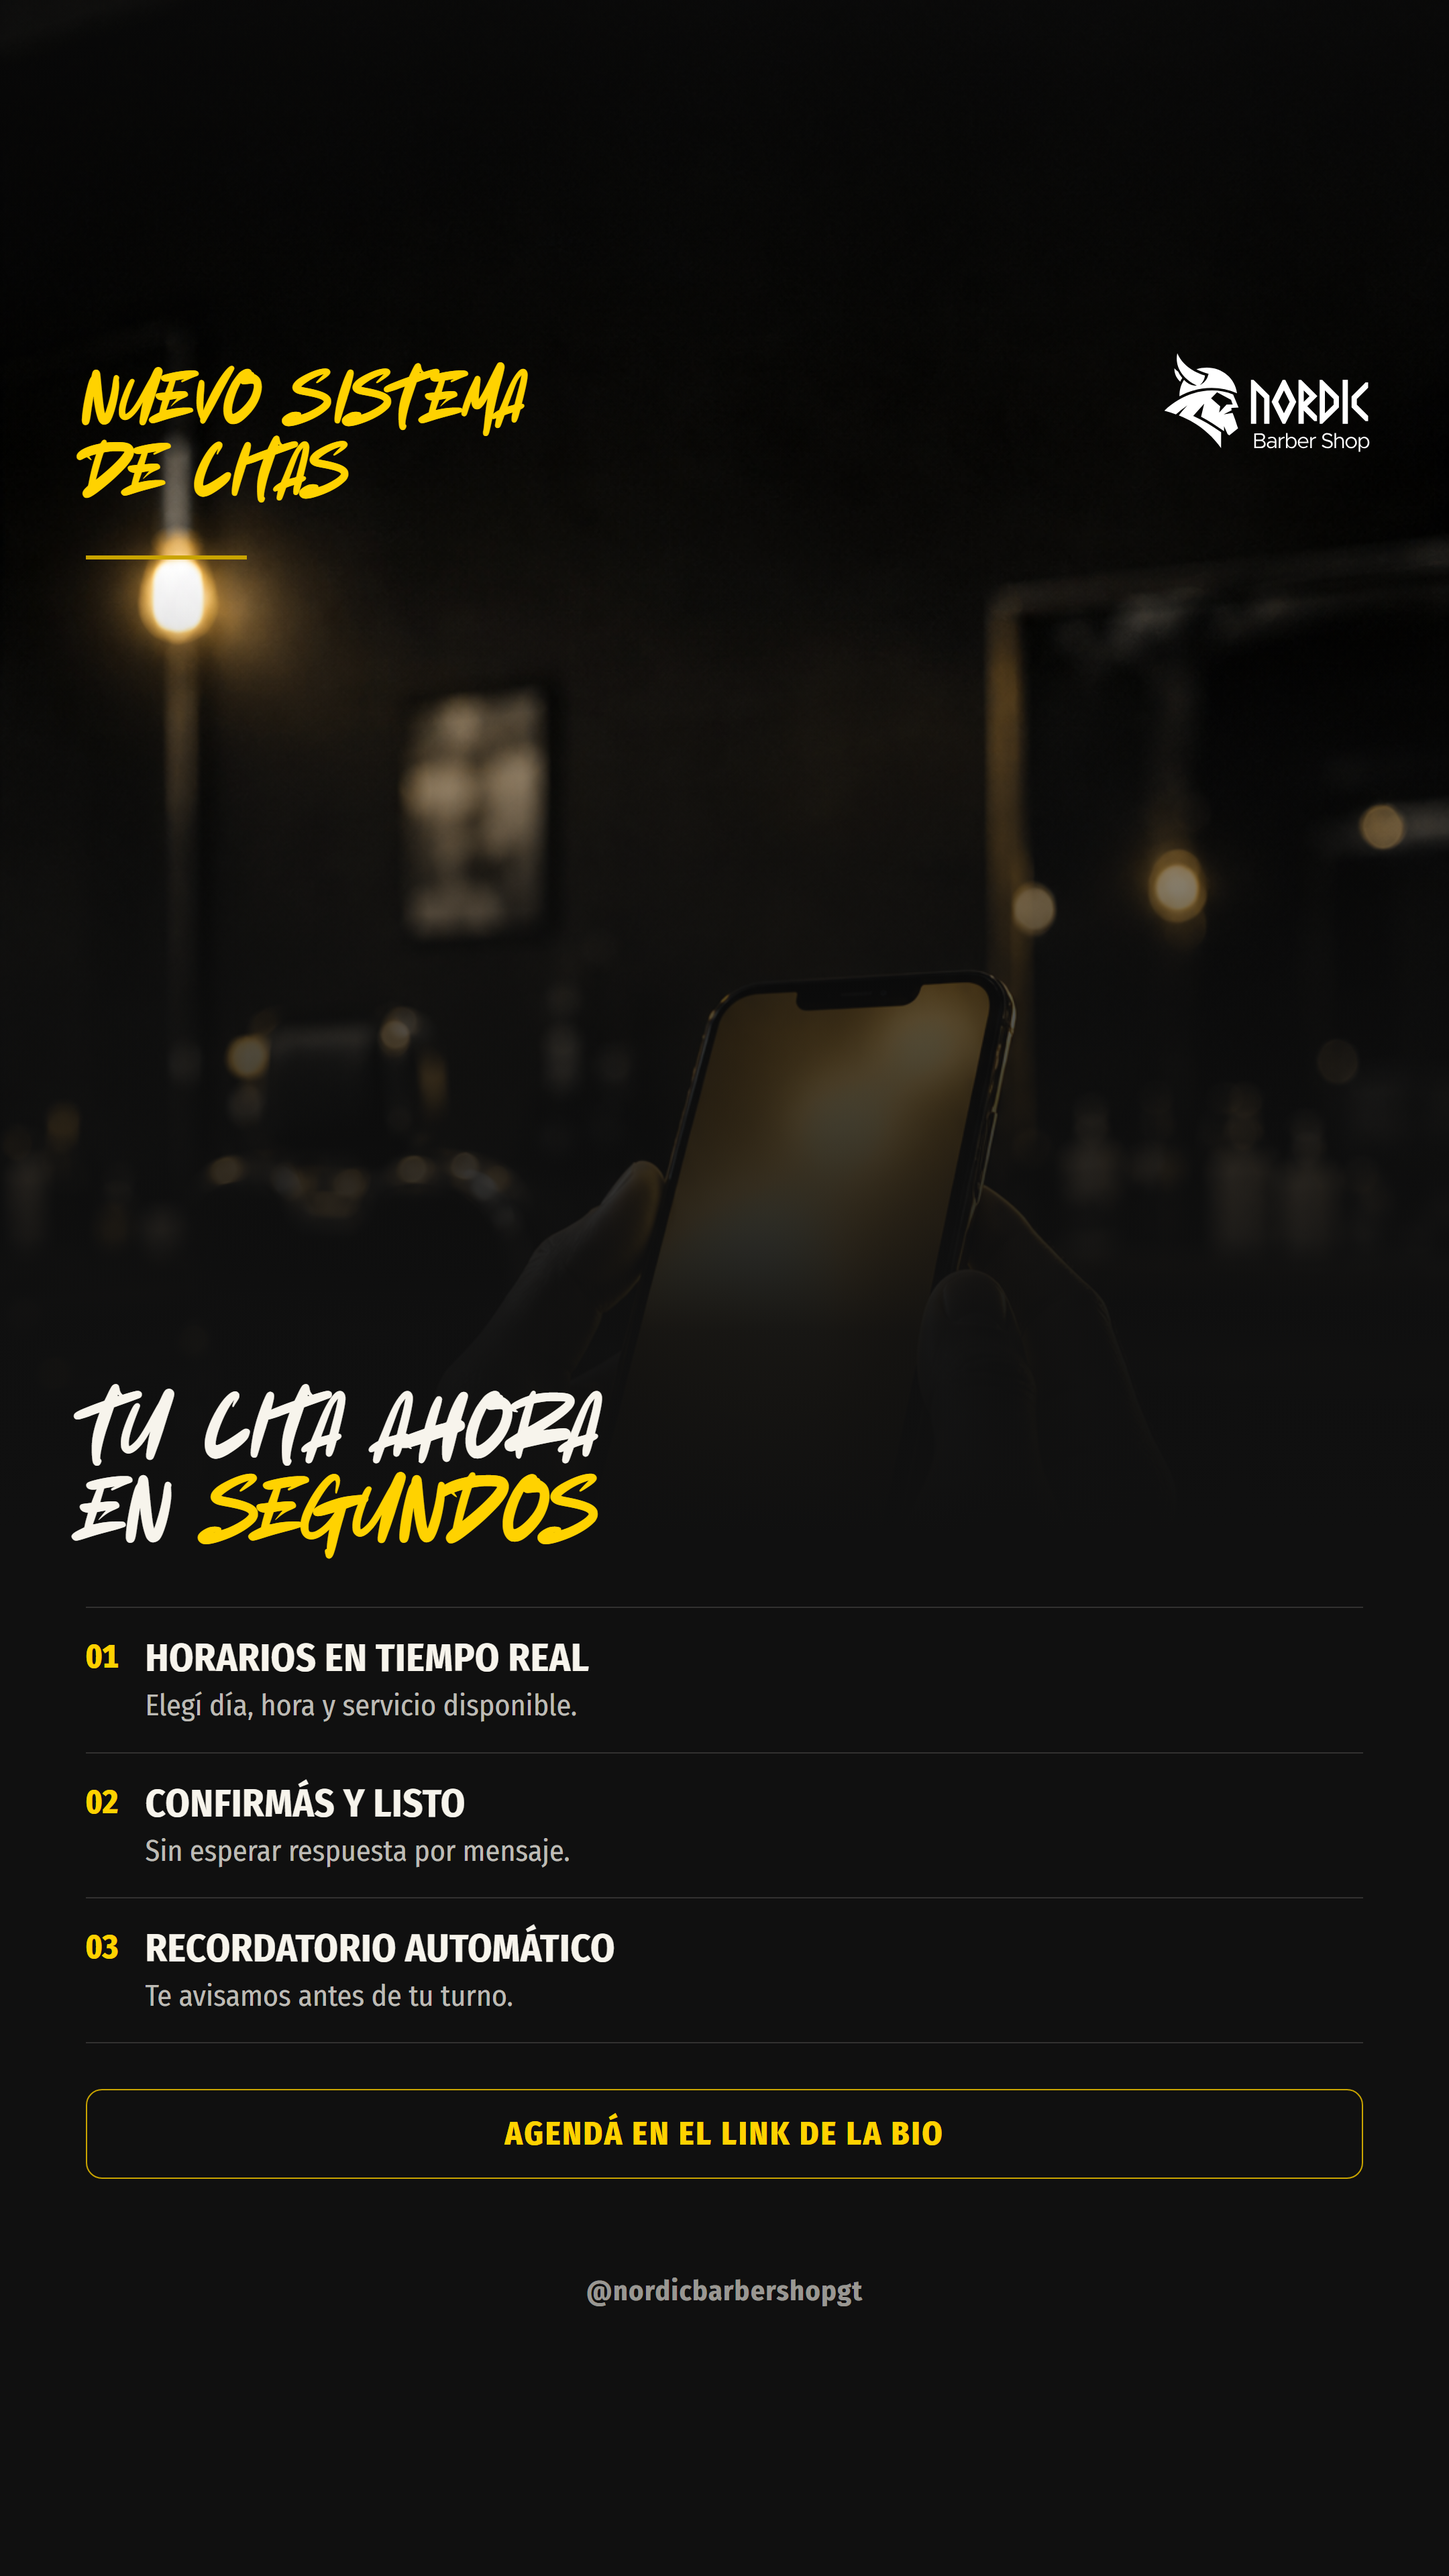
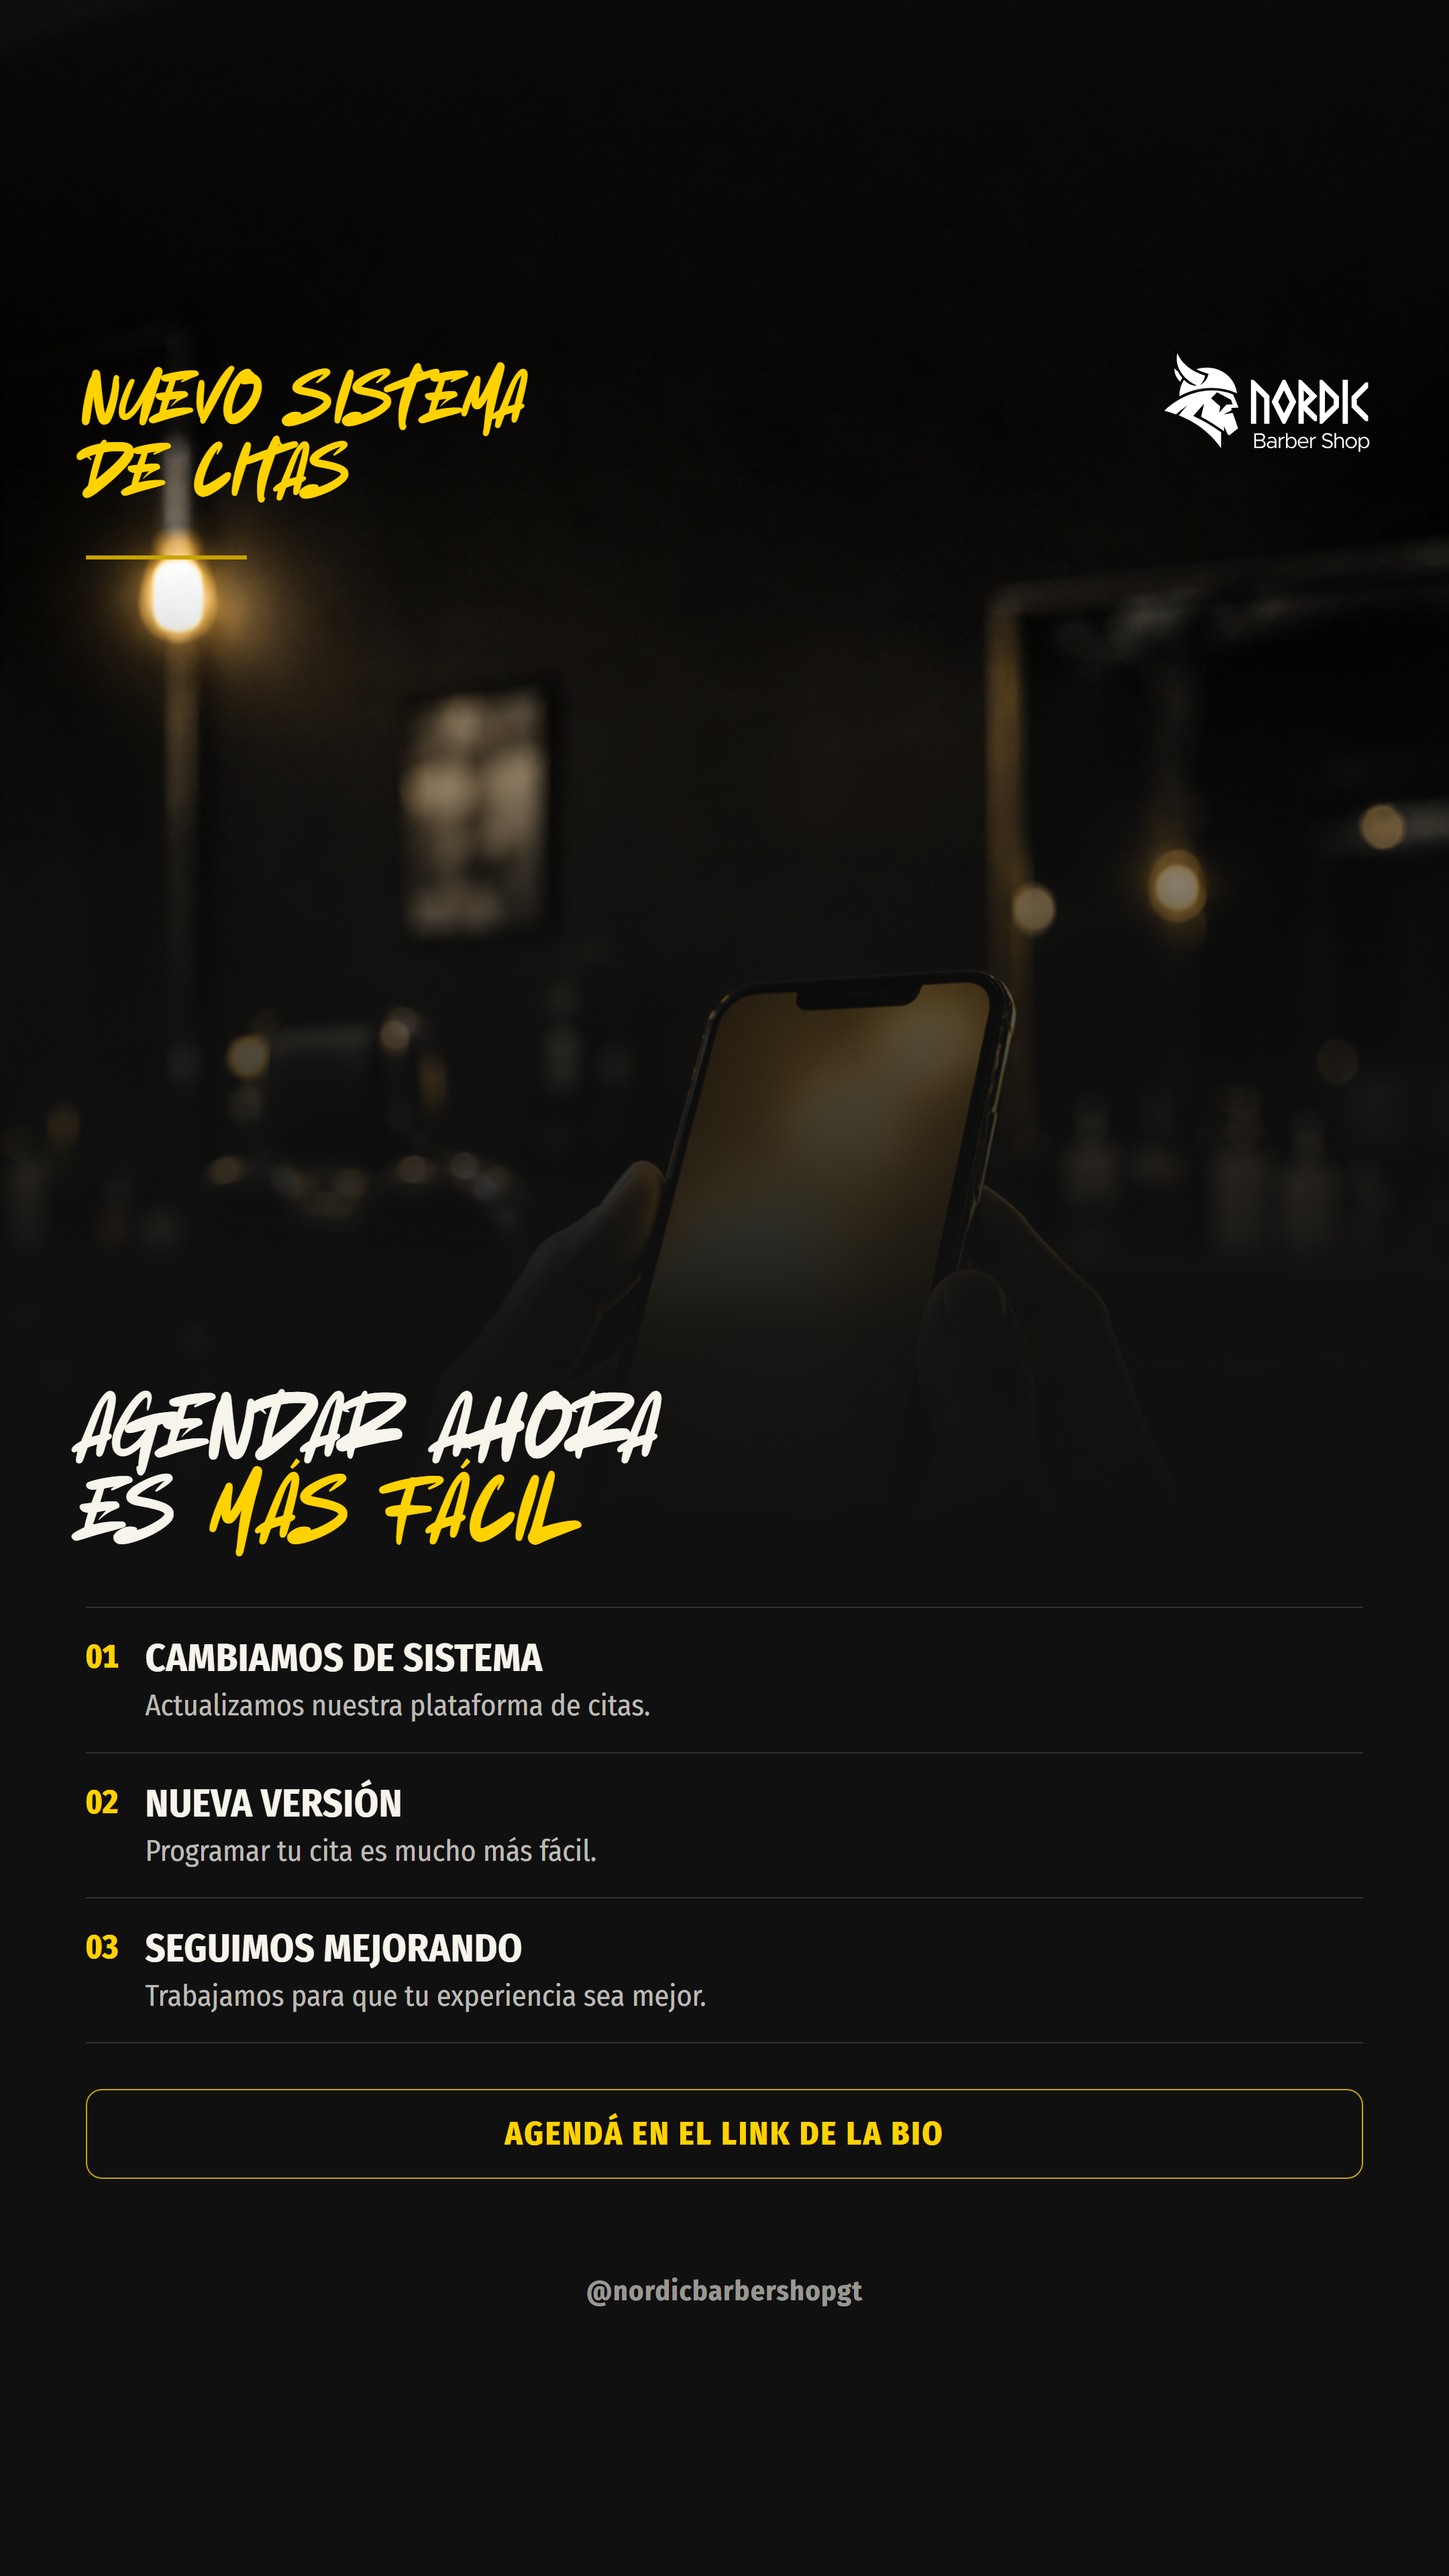
Revise nuevo-sistema-citas: reframe around system change, not speed
Client asked to drop the speed promise "Tu cita ahora en segundos"
and instead lead with the fact that the appointment system changed:
a new version was released to make scheduling easier, and the team
is working on making the client experience more pleasant.

- Headline: "Agendar ahora es Más fácil" (highlight: Más fácil),
  replacing "Tu cita ahora en Segundos"
- Benefit list rewritten: 01 Cambiamos de sistema, 02 Nueva versión,
  03 Seguimos mejorando (dropped horarios en tiempo real / confirmás
  y listo / recordatorio automático, which the client didn't ask to
  keep)
- copy.json: headline fields, caption_on_image, instagram_caption
  rewritten to match; build_method notes this as revision 2
- Backgrounds unchanged (assets/bg.png, bg-story.png) — text-only
  revision, no new image generation
- Re-rendered both PNGs via headless Chrome at 2x scale
- Updated both showcase entries' alt text in root index.html

Changed region(s): [[0.031, 0.5312, 0.4653, 0.7188], [0.0931, 0.7188, 0.4653, 0.7812]]

diff --git a/index.html b/index.html
@@ -432,7 +432,7 @@ const POSTS = [
     title:'Nuevo sistema de citas',
     label:'Anuncio',
     cover:'posts/instagram/nuevo-sistema-citas/00-portada.png',
-    alt:'Anuncio Nordic Barber Shop del nuevo sistema de citas: primer plano duotono de unas manos sosteniendo un celular con la pantalla en un resplandor dorado dentro de la barbería, eyebrow en gold a tamaño titular — Nuevo sistema de citas — y titular en gold/bone — Tu cita ahora en segundos — con lista de tres beneficios (horarios en tiempo real, confirmás y listo, recordatorio automático) y CTA agendá en el link de la bio',
+    alt:'Anuncio Nordic Barber Shop del nuevo sistema de citas: primer plano duotono de unas manos sosteniendo un celular con la pantalla en un resplandor dorado dentro de la barbería, eyebrow en gold a tamaño titular — Nuevo sistema de citas — y titular en bone/gold — Agendar ahora es Más fácil — con lista de tres puntos (cambiamos de sistema, nueva versión, seguimos mejorando) y CTA agendá en el link de la bio',
     copyJson:'posts/instagram/nuevo-sistema-citas/copy.json',
     file:'00-portada.png'
   },
@@ -443,7 +443,7 @@ const POSTS = [
     title:'Nuevo sistema de citas',
     label:'Versión: Story',
     cover:'posts/instagram/nuevo-sistema-citas/00-story.png',
-    alt:'Anuncio Nordic Barber Shop del nuevo sistema de citas, versión Story: primer plano duotono de unas manos sosteniendo un celular con la pantalla en un resplandor dorado dentro de la barbería, eyebrow en gold a tamaño titular — Nuevo sistema de citas — y titular en gold/bone — Tu cita ahora en segundos — con lista de tres beneficios y CTA agendá en el link de la bio',
+    alt:'Anuncio Nordic Barber Shop del nuevo sistema de citas, versión Story: primer plano duotono de unas manos sosteniendo un celular con la pantalla en un resplandor dorado dentro de la barbería, eyebrow en gold a tamaño titular — Nuevo sistema de citas — y titular en bone/gold — Agendar ahora es Más fácil — con lista de tres puntos (cambiamos de sistema, nueva versión, seguimos mejorando) y CTA agendá en el link de la bio',
     copyJson:'posts/instagram/nuevo-sistema-citas/copy.json',
     file:'00-story.png'
   },

diff --git a/posts/instagram/nuevo-sistema-citas/index-story.html b/posts/instagram/nuevo-sistema-citas/index-story.html
@@ -190,28 +190,28 @@
 
   <div class="content">
 
-    <div class="headline">TU CITA AHORA<br>EN <span class="hl">SEGUNDOS</span></div>
+    <div class="headline">AGENDAR AHORA<br>ES <span class="hl">MÁS FÁCIL</span></div>
 
     <div class="benefits">
       <div class="benefit-row">
         <div class="benefit-num">01</div>
         <div class="benefit-text">
-          <div class="benefit-label">Horarios en tiempo real</div>
-          <div class="benefit-sub">Elegí día, hora y servicio disponible.</div>
+          <div class="benefit-label">Cambiamos de sistema</div>
+          <div class="benefit-sub">Actualizamos nuestra plataforma de citas.</div>
         </div>
       </div>
       <div class="benefit-row">
         <div class="benefit-num">02</div>
         <div class="benefit-text">
-          <div class="benefit-label">Confirmás y listo</div>
-          <div class="benefit-sub">Sin esperar respuesta por mensaje.</div>
+          <div class="benefit-label">Nueva versión</div>
+          <div class="benefit-sub">Programar tu cita es mucho más fácil.</div>
         </div>
       </div>
       <div class="benefit-row">
         <div class="benefit-num">03</div>
         <div class="benefit-text">
-          <div class="benefit-label">Recordatorio automático</div>
-          <div class="benefit-sub">Te avisamos antes de tu turno.</div>
+          <div class="benefit-label">Seguimos mejorando</div>
+          <div class="benefit-sub">Trabajamos para que tu experiencia sea mejor.</div>
         </div>
       </div>
     </div>

diff --git a/posts/instagram/nuevo-sistema-citas/index.html b/posts/instagram/nuevo-sistema-citas/index.html
@@ -190,28 +190,28 @@
 
   <div class="content">
 
-    <div class="headline">TU CITA AHORA<br>EN <span class="hl">SEGUNDOS</span></div>
+    <div class="headline">AGENDAR AHORA<br>ES <span class="hl">MÁS FÁCIL</span></div>
 
     <div class="benefits">
       <div class="benefit-row">
         <div class="benefit-num">01</div>
         <div class="benefit-text">
-          <div class="benefit-label">Horarios en tiempo real</div>
-          <div class="benefit-sub">Elegí día, hora y servicio disponible.</div>
+          <div class="benefit-label">Cambiamos de sistema</div>
+          <div class="benefit-sub">Actualizamos nuestra plataforma de citas.</div>
         </div>
       </div>
       <div class="benefit-row">
         <div class="benefit-num">02</div>
         <div class="benefit-text">
-          <div class="benefit-label">Confirmás y listo</div>
-          <div class="benefit-sub">Sin esperar respuesta por mensaje.</div>
+          <div class="benefit-label">Nueva versión</div>
+          <div class="benefit-sub">Programar tu cita es mucho más fácil.</div>
         </div>
       </div>
       <div class="benefit-row">
         <div class="benefit-num">03</div>
         <div class="benefit-text">
-          <div class="benefit-label">Recordatorio automático</div>
-          <div class="benefit-sub">Te avisamos antes de tu turno.</div>
+          <div class="benefit-label">Seguimos mejorando</div>
+          <div class="benefit-sub">Trabajamos para que tu experiencia sea mejor.</div>
         </div>
       </div>
     </div>
